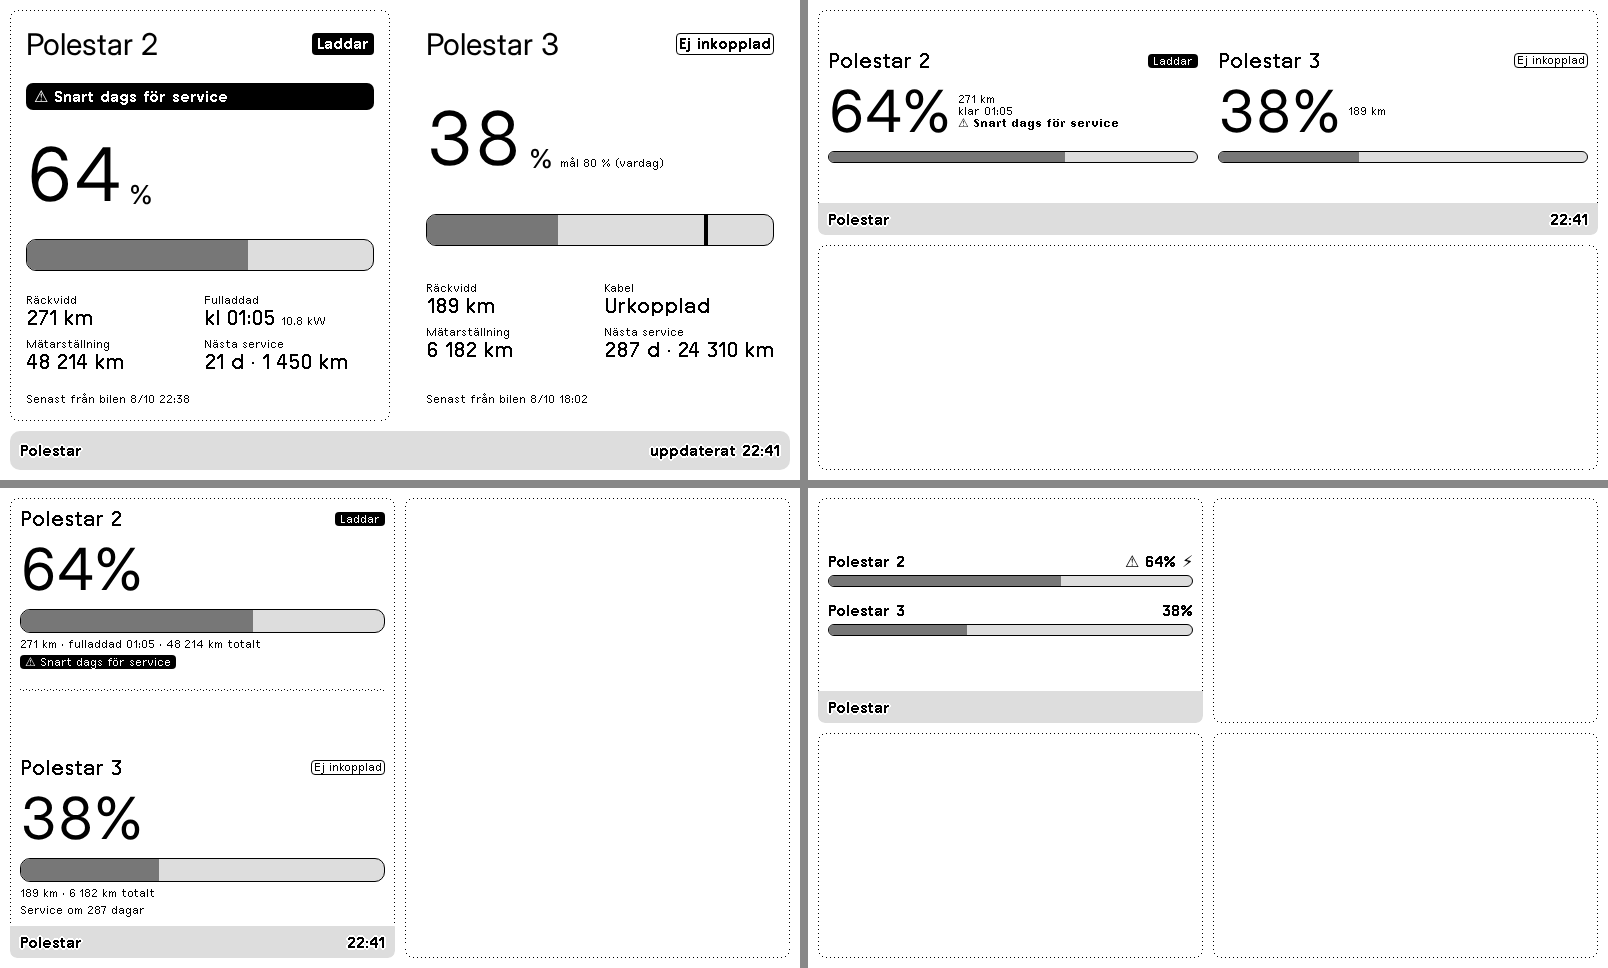
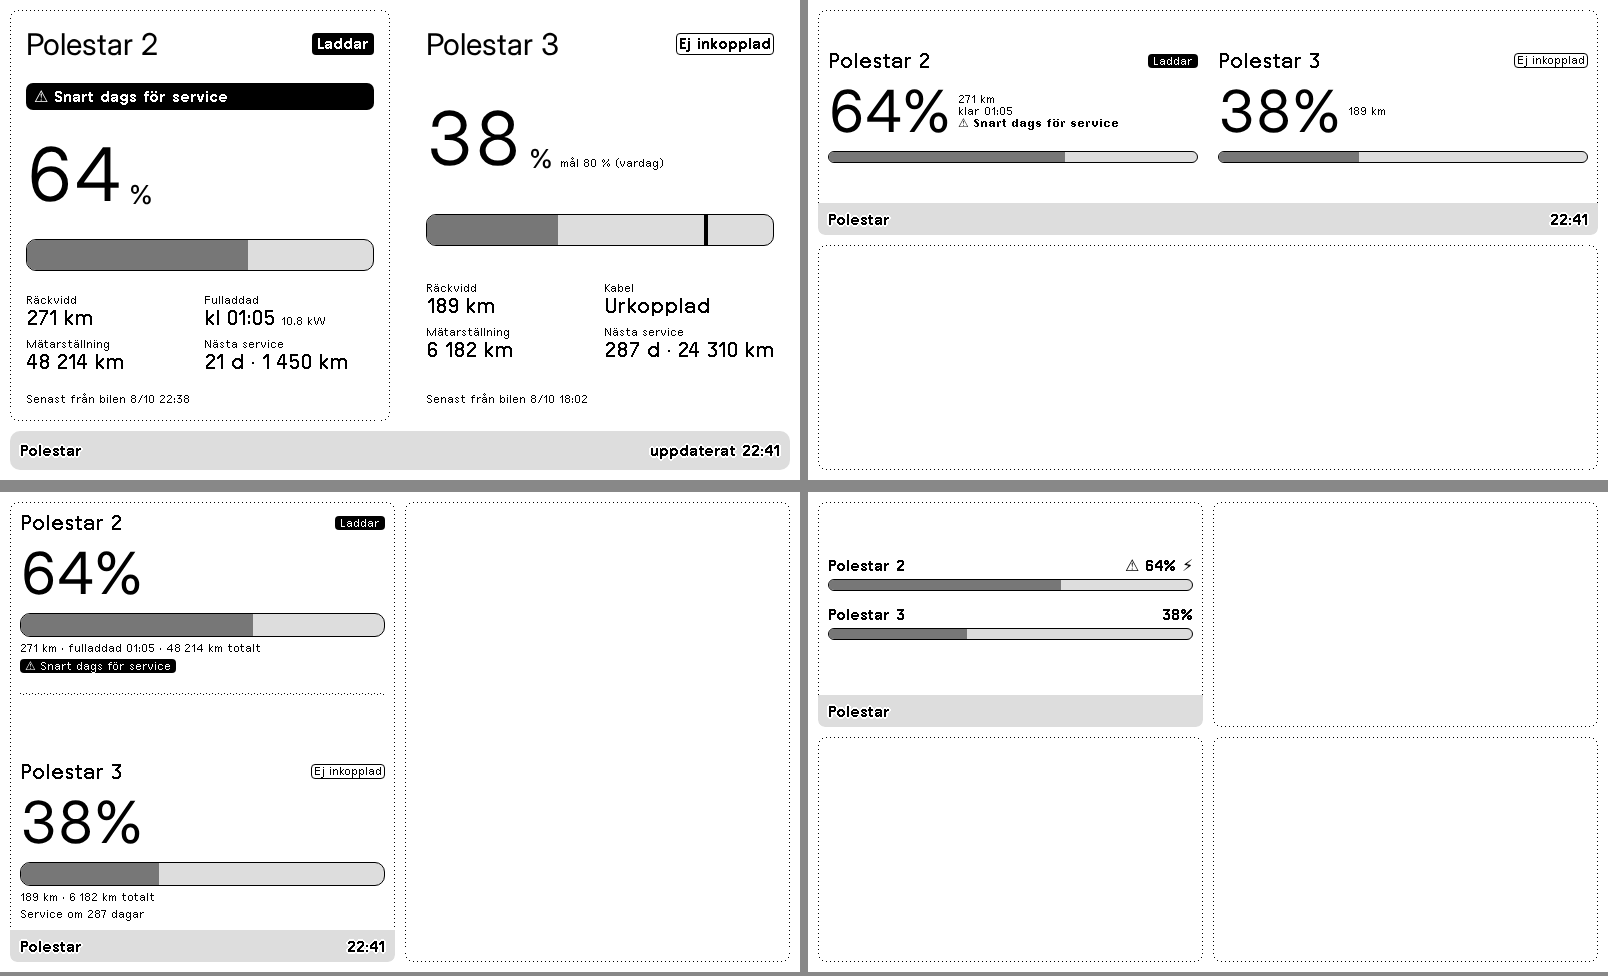
Support portrait and TRMNL X; drop inline styles
Layouts stack with portrait: classes and grow with lg: on TRMNL X.
Inline style attributes replaced by framework classes (dynamic progress
bar widths excepted).

diff --git a/README.md b/README.md
@@ -6,6 +6,7 @@ Plugin för [TRMNL](https://trmnl.com) (e-pappersskärm). Batterinivå, räckvid
 
 Alla fyra layouter (full, half_horizontal, half_vertical, quadrant) finns, så den fungerar i mashups.
 Se [`preview/overview.png`](preview/overview.png).
+Testad i liggande och stående format samt på TRMNL X: [stående](preview/full.portrait.png), [TRMNL X](preview/full.x.png).
 
 ## Installera
 
